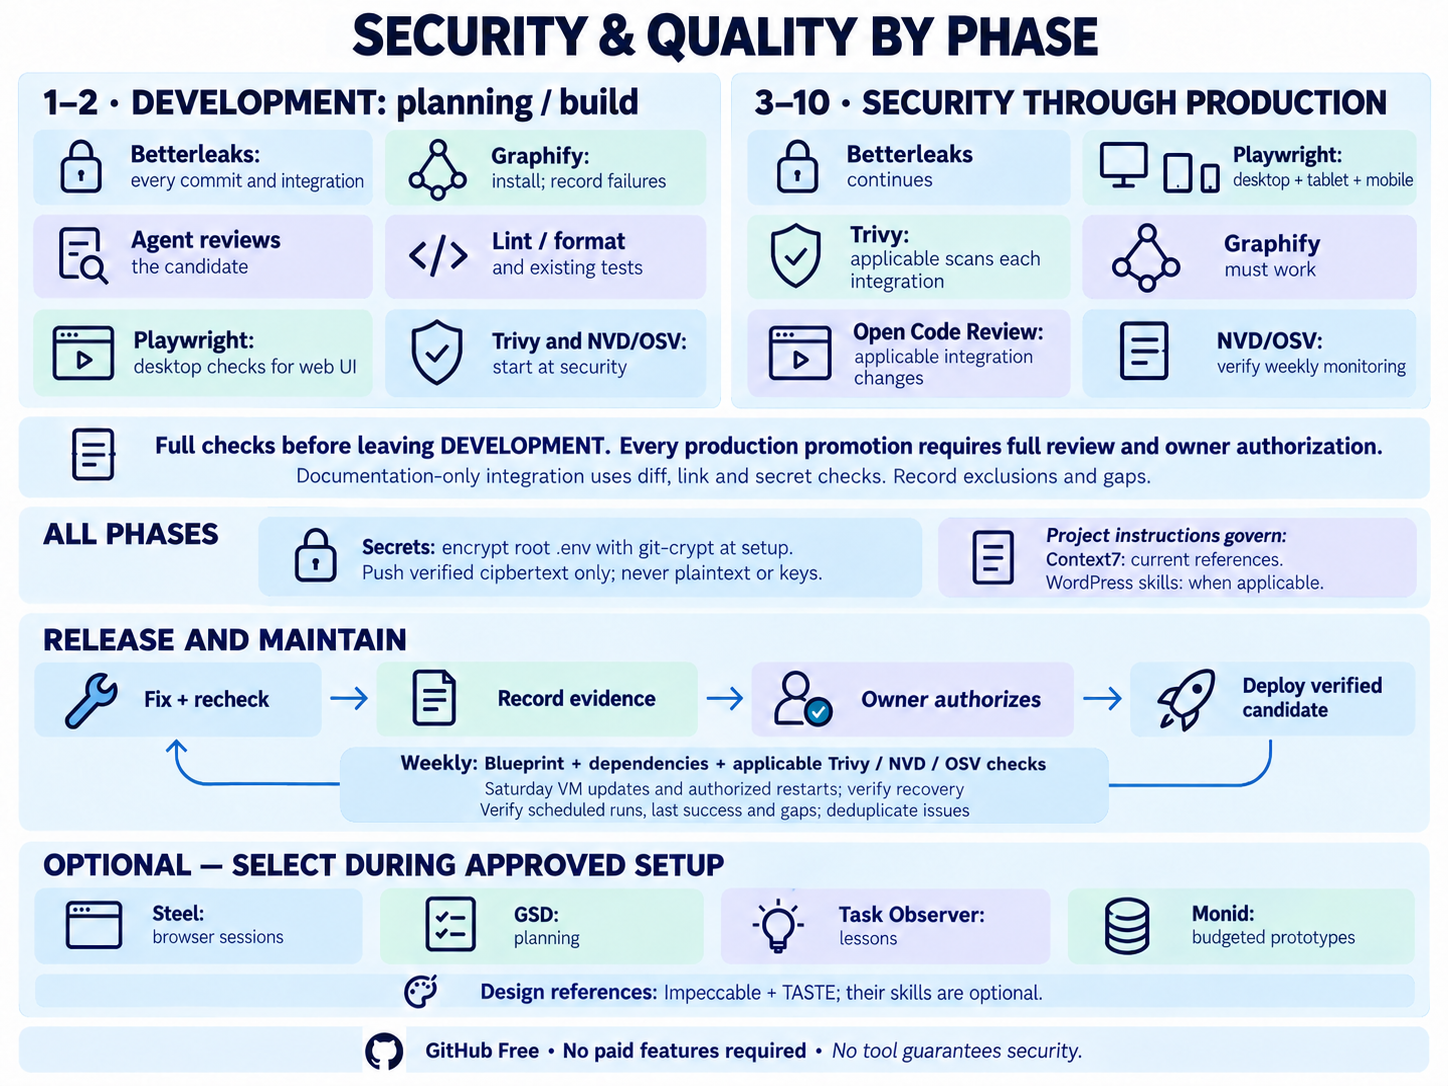
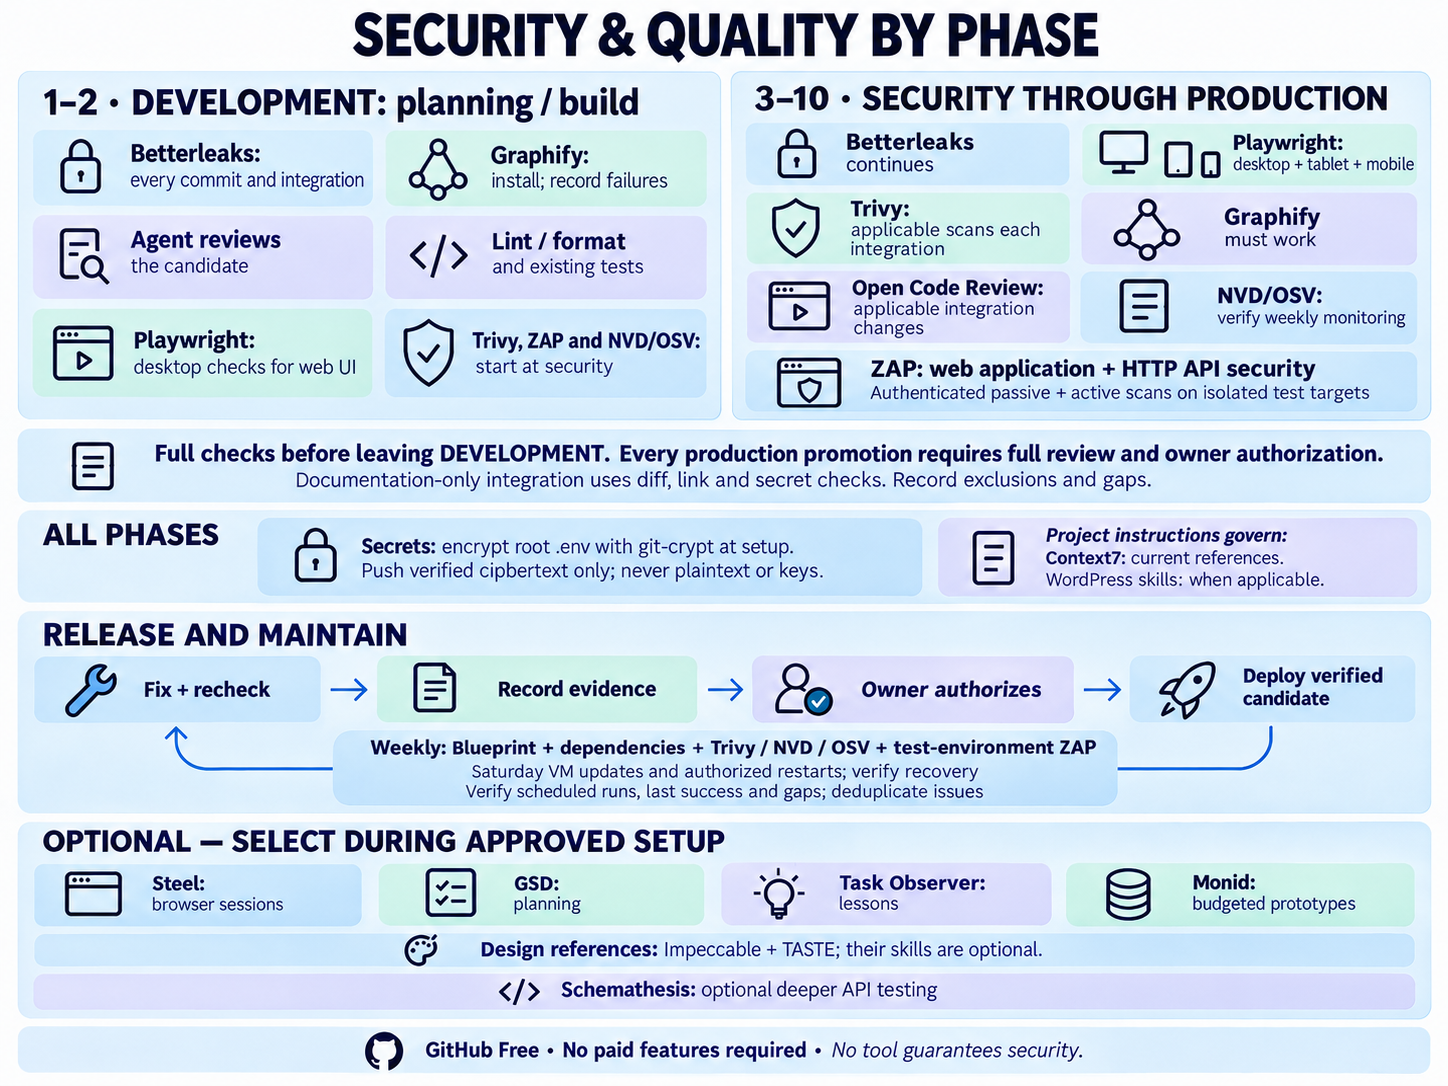
Integrate ZAP security testing (#51)

diff --git a/template/security.md b/template/security.md
@@ -16,6 +16,7 @@ Light checks apply from setup; the full set switches on at `DEVELOPMENT: securit
 | [Secret scanning](#secret-scanning) (Betterleaks) and [encrypted `.env`](#encrypted-env-with-git-crypt) | Required at setup, every commit and integration | Required at every commit and integration |
 | Release rule: no `main` or production change without explicit release authorization | Always | Always |
 | [Trivy](#dependency-and-configuration-scanning) | Not yet installed | Install, run before each integration, weekly thereafter |
+| [ZAP](#application-and-api-security-testing) for web applications and HTTP APIs | Plan scope; not yet installed | Install and verify; affected integrations, every production candidate, weekly test-environment scan |
 | [Delegated code review](git-workflow.md#delegated-code-review) (Open Code Review) | Agent's own review of the candidate | Applicable integration changes and every production promotion; exclusions follow the linked workflow |
 | [Playwright](project.md#playwright) for web UI | Installed at setup; desktop checks | Full desktop/tablet/mobile matrix |
 | [Lint/format](packages.md#linting-and-formatting), existing tests and meaningful behavior checks | Required as applicable | Required as applicable |
@@ -69,6 +70,18 @@ Secret scanning is required infrastructure. Use [Betterleaks](https://github.com
 - Run an initial baseline and applicable scans of each integration candidate, and applicable scans of the exact candidate before every production promotion. Rescan maintained projects weekly for newly disclosed vulnerabilities, including the recorded deployed version/artifact where accessible. Use current vulnerability databases and record scan time, database freshness, candidate/image identity, covered targets, and gaps. Unattended checks follow the recorded maintenance choice; without a verified runner, perform checks during active sessions and disclose the scheduling gap.
 - Configure a nonzero result for blocking findings and verify both detection/failure and clean/pass behavior with harmless isolated fixtures, without executing vulnerable software. Scan errors, stale/unavailable required databases, skipped checks, or missing required coverage are incomplete verification. Retain a complete report for triage; do not hide unfixed vulnerabilities simply because no patch exists. Confirm findings, fix and rescan, and use the existing [security review](#security-review) severity and owner-only risk-acceptance rules. Keep exclusions narrow, evidenced, tracked, and time-bounded; preserve accepted findings in the record.
 - Keep detailed results private. Run with minimal permissions and without production secrets, using authorized local or CI resources within existing limits. Paid dashboards, public report uploads, and paid GitHub security features are not prerequisites. Optional license scanning or software inventories support project needs; scanner license categories do not determine legal approval.
+
+## Application and API security testing
+
+[ZAP](https://www.zaproxy.org/) is required for projects exposing a web application or HTTP API from `DEVELOPMENT: security` onward under [checks by phase](#checks-by-phase). Projects exposing neither record reasoned `ZAP: not applicable`; unsupported protocols need explicit complementary tests. A required application that cannot run is a blocker, not an exclusion. ZAP complements Betterleaks, Trivy, code review and Playwright; it does not replace them or prove business-rule correctness.
+
+- Install a verified official release or pinned container digest on authorized local resources in the project's existing LXC container or VM; no separate VM, paid service or GitHub feature is required. Follow the [Automation Framework](https://www.zaproxy.org/docs/automate/automation-framework/) and [API scanning guidance](https://www.zaproxy.org/docs/docker/api-scan/). Select maintained [add-ons](https://www.zaproxy.org/addons/) for the actual protocols, authentication and frontend; assess maturity and need rather than installing every experimental rule. Record versions, scan plan, commands and prerequisites in private setup docs, linked from `AGENTS.md`; maintain them under [updates.md](updates.md).
+- Bound scans to recorded project-owned test targets, routes and methods, using synthetic accounts/data, rate/time limits and resettable fixtures. Keep the scanner's control API private and access-restricted. Active scans can modify data; isolate production and third-party destinations, including redirects and outbound application calls, and use sandboxed or stubbed payment, messaging and other external integrations. Crawling and proxied browser journeys also need these boundaries even when analysis is passive. Routine scans within this verified scope need no repeated approval; production or third-party scanning requires separate explicit authorization.
+- Cover browser pages and APIs with suitable policies. Import applicable OpenAPI, GraphQL or SOAP definitions; otherwise seed discovered endpoints or existing tests. Where practical, proxy selected Playwright journeys through ZAP to reuse navigation, retaining normal browser assertions and device coverage. Verify authenticated sessions remain logged in and compare reached endpoints/roles with the project's inventory; a login page, empty crawl, passive-only scan or API-only policy does not establish complete application coverage. Keep explicit allowed/denied user, role, object and tenant tests alongside automated scans.
+- Run and verify an initial baseline at `security`, affected runtime checks before integration, and applicable scans of the exact release candidate in isolation before every production promotion. Repeat a bounded test-environment scan weekly under existing maintenance scheduling. Documentation-only changes without runtime effect need no scan; record the reason. Record target/candidate, authentication and endpoint coverage, exclusions, scanner/rule versions and results privately. Missing targets, failed login, timeouts, skipped checks and incomplete scans are gaps, never clean results.
+- Configure finding thresholds and process exit status explicitly; successful plan execution alone does not mean no vulnerabilities. Verify detection and blocking with a harmless isolated fixture and confirm clean/pass behavior. Triage findings, fix and retest using [security review](#security-review), preserving narrow evidenced exceptions and owner-only risk acceptance. Keep credentials, request/response captures and reports private and out of public artifacts; retain only needed evidence with appropriate access and cleanup.
+
+For APIs consumed from other providers, apply [OWASP API Security guidance](https://owasp.org/API-Security/) and [unsafe consumption protections](https://api-security.owasp.org/editions/2023/en/0xaa-unsafe-consumption-of-apis/): inventory integrations and data shared, use least-privilege server-side credentials and TLS verification, validate returned data, constrain destinations/redirects to prevent server-side request forgery, and bound timeouts, response sizes and retries. Verify webhook signatures and replay protection where applicable, and idempotency, rate/spend limits and failure handling for consequential operations. Test malformed responses and provider failures with controlled substitutes; never attack a provider to validate our integration. For schema-heavy APIs, [Schemathesis](https://schemathesis.readthedocs.io/) is optional deeper testing when selected; it is not required setup.
 
 ## Vulnerability intelligence
 

diff --git a/README.md b/README.md
@@ -80,7 +80,7 @@ Use the interface prompt in [Prompts](#prompts).
 
 Tools complement application security controls; a clean report cannot guarantee security. [Security review](template/security.md#security-review) governs coverage, findings, and risk decisions.
 
-![Security and quality by phase. Planning/build require secret scans, agent review, desktop Playwright for web UI, lint/format and existing tests; install Graphify and record failures. From DEVELOPMENT security onward require working Graphify, applicable Trivy scans, delegated code review, full desktop/tablet/mobile coverage and NVD/OSV monitoring. Full checks precede leaving DEVELOPMENT; every production promotion requires review and owner authorization. Weekly Blueprint, dependency and applicable security checks share verified scheduling with authorized Saturday VM maintenance. Root .env uses git-crypt encryption at initial setup; only verified ciphertext may be pushed, never plaintext or keys. Steel, GSD, Task Observer and Monid are optional; Impeccable and TASTE skills are optional. No paid GitHub features are required and no tool guarantees security](assets/security-quality-flow.png)
+![Security and quality by phase. Planning/build require secret scans, agent review, desktop Playwright for web UI, lint/format and existing tests; install Graphify and record failures. From DEVELOPMENT security onward require working Graphify, applicable Trivy and ZAP application/API scans, delegated code review, full desktop/tablet/mobile coverage and NVD/OSV monitoring. Full checks precede leaving DEVELOPMENT; every production promotion requires review and owner authorization. ZAP uses isolated test targets and authenticated coverage; existing tools remain required. Weekly Blueprint, dependency and applicable security checks share verified scheduling with authorized Saturday VM maintenance. Root .env uses git-crypt encryption at initial setup; only verified ciphertext may be pushed, never plaintext or keys. Steel, GSD, Task Observer, Monid and deeper Schemathesis API testing are optional; Impeccable and TASTE skills are optional. No paid GitHub features are required and no tool guarantees security](assets/security-quality-flow.png)
 
 [Open the full-size security and quality graphic](assets/security-quality-flow.png). Weekly rescans and inventory-matched NVD/OSV advisory checks share the maintenance workflow. [Monitor health](template/updates.md#advisory-monitoring-and-health) records verified scheduled execution, last successful checks and gaps; otherwise agents check during active sessions. Existing projects approve maintenance-rule changes under the recorded adoption policy.
 
@@ -93,6 +93,7 @@ Tools complement application security controls; a clean report cannot guarantee 
 | [ESLint](https://eslint.org/) / [Prettier](https://prettier.io/) / [WordPress Coding Standards](https://github.com/WordPress/WordPress-Coding-Standards) | [Stack-appropriate checks](template/packages.md#linting-and-formatting) enforce consistent code and flag problematic patterns; preserve equivalent existing tools. |
 | [Betterleaks](https://github.com/betterleaks/betterleaks) | Required secret scanning checks files, staged changes, and relevant history; verified existing Gitleaks coverage can remain during adoption. |
 | [Trivy](https://github.com/aquasecurity/trivy) | Required scanning for supported dependency vulnerabilities, infrastructure configuration, and shipped container images. Record coverage gaps, including WordPress components outside Composer coverage. |
+| [ZAP](https://www.zaproxy.org/) | Required running-application security tests for web applications and HTTP APIs from `DEVELOPMENT: security`: discovery, authenticated passive/active scans, applicable API coverage and private reports under [security guidance](template/security.md#application-and-api-security-testing). Complements existing tools. |
 | [Open Code Review](https://github.com/alibaba/open-code-review) | Delegated review follows [change-type exclusions](template/git-workflow.md#delegated-code-review); every production promotion requires full review. Preview alone is insufficient. |
 | [Playwright](https://playwright.dev/) | Required for web-facing UI; projects without one record reasoned N/A and skip the browser stack and device matrix. |
 | [Steel Browser](https://github.com/steel-dev/steel-browser) | Optional agent browser sessions, extraction, and debugging under [setup guidance](template/project.md#steel-browser). Prefer authorized local/self-hosted resources; retain required Playwright device/browser checks. |
@@ -102,18 +103,20 @@ Tools complement application security controls; a clean report cannot guarantee 
 | [Task Observer](https://github.com/rebelytics/one-skill-to-rule-them-all) | Optional, owner-selected lesson capture with private persistent observations, verified activation, and reviewed proposals under [setup guidance](template/project.md#task-observer). |
 | [TASTE](https://github.com/leonxlnx/taste-skill) | Public-page design reference and optional skill; content-led composition and screenshot critique under [project design rules](template/design.md). |
 
+ZAP runs against isolated project test targets with synthetic accounts and controlled external integrations. Agents verify authentication and endpoint coverage, retain explicit permission tests, and protect third-party API consumption under [application and API security testing](template/security.md#application-and-api-security-testing). Schemathesis is optional for deeper schema-based API tests when needed.
+
 Agents verify changes under [delivery rules](template/git-workflow.md#isolation-branches-and-delivery) and [security review](template/security.md#security-review), fixing findings and recording evidence. [Release](template/launch.md) requires candidate checks and authorization; [maintenance](template/updates.md) repeats checks as advisories change.
 
 ## Weekly maintenance and credentials
 
-[Setup](template/project.md#setup-interview) records a weekly plan covering Blueprint changes, NVD/OSV checks, Trivy rescans and dependency updates. [VM maintenance](template/updates.md#weekly-vm-maintenance) defaults to late Saturday in the recorded timezone, with agreed restart/reboot scope and recovery checks. Shared VMs have one host job. Each check records its own result; failed or missing runs are reported, not counted as clean.
+[Setup](template/project.md#setup-interview) records a weekly plan covering Blueprint changes, NVD/OSV checks, Trivy rescans, bounded ZAP test-environment scans and dependency updates. [VM maintenance](template/updates.md#weekly-vm-maintenance) defaults to late Saturday in the recorded timezone, with agreed restart/reboot scope and recovery checks. Shared VMs have one host job. Each check records its own result; failed or missing runs are reported, not counted as clean.
 
 ```mermaid
 flowchart TD
     A[Initial owner interview] --> B[Verify scheduler, access and agent handoff]
     B --> C[Weekly maintenance window]
     C --> D[Blueprint default-branch comparison]
-    C --> E[NVD / OSV, Trivy and dependency checks]
+    C --> E[NVD / OSV, Trivy, test-environment ZAP and dependency checks]
     C --> F[One job per VM: OS updates and authorized restarts]
     D --> G[Issue first: apply routine changes; ask on major changes]
     E --> H[Triage findings and verify fixes]

diff --git a/template/project.md b/template/project.md
@@ -30,7 +30,7 @@ Record each required tool's installed version/revision, location, and verificati
 1. Record the phase/subphase under [phases.md](phases.md), launch state, actual development/deployed commits, branches, triggers, services, and checks. New projects start at `DEVELOPMENT: planning`; existing projects retain their verified position, asking only if unclear. Mark undeployed/unconfigured items explicitly. Establish integration under [git-workflow.md](git-workflow.md) without discarding unfinished work.
 2. Complete [Playwright setup](#playwright), selected [Steel Browser setup](#steel-browser), and [linting and formatting](packages.md#linting-and-formatting); [Open Code Review setup](#open-code-review) and the full device matrix follow [checks by phase](security.md#checks-by-phase) at `DEVELOPMENT: security`. Fill and verify the command table from scripts/CI; identify blocked or inapplicable commands. Keep the human-facing quick start in README.
 3. Establish private `docs/internal/` and its index under [documentation.md](documentation.md). Add `docs/public/` and optional `docs/admin/` only when needed; record each source, destination, build command, audience, and access restrictions. Verify links and existing delivery without publishing an unauthorized release.
-4. Complete [Betterleaks secret-scanning setup](security.md#secret-scanning); [Trivy](security.md#dependency-and-configuration-scanning) is installed at `DEVELOPMENT: security` under [checks by phase](security.md#checks-by-phase). Create and protect the project-root `.env` and placeholder-only `.env.example` under [local secret handling](security.md#local-development-secrets); configure and verify standard [git-crypt encryption](security.md#encrypted-env-with-git-crypt), including plaintext blocking and scan-scope tests, before tracking `.env`. Inventory all [recovery dependencies and protected backups](security.md#local-development-secrets), record recovery objectives and restore-test evidence/gaps, and verify applicable recovery readiness. Document test-data setup, secret configuration, and private vulnerability reporting under [security.md](security.md), without secret values. Record business/service regions and existing policies under [legal.md](legal.md); assess applicable notices before real personal-data collection, including pre-launch. Identify existing commercial decisions and customer-facing pages under [offering.md](offering.md). Adoption does not authorize replacing live policies or offers.
+4. Complete [Betterleaks secret-scanning setup](security.md#secret-scanning); [Trivy](security.md#dependency-and-configuration-scanning) and applicable [ZAP testing](security.md#application-and-api-security-testing) are installed and verified at `DEVELOPMENT: security` under [checks by phase](security.md#checks-by-phase). Create and protect the project-root `.env` and placeholder-only `.env.example` under [local secret handling](security.md#local-development-secrets); configure and verify standard [git-crypt encryption](security.md#encrypted-env-with-git-crypt), including plaintext blocking and scan-scope tests, before tracking `.env`. Inventory all [recovery dependencies and protected backups](security.md#local-development-secrets), record recovery objectives and restore-test evidence/gaps, and verify applicable recovery readiness. Document test-data setup, secret configuration, and private vulnerability reporting under [security.md](security.md), without secret values. Record business/service regions and existing policies under [legal.md](legal.md); assess applicable notices before real personal-data collection, including pre-launch. Identify existing commercial decisions and customer-facing pages under [offering.md](offering.md). Adoption does not authorize replacing live policies or offers.
 5. Configure maintenance under [updates.md](updates.md), including [weekly VM maintenance](updates.md#weekly-vm-maintenance) and [periodic Blueprint checks](updates.md#periodic-blueprint-maintenance); [NVD/OSV advisory monitoring and health verification](updates.md#advisory-monitoring-and-health) is configured at `DEVELOPMENT: security`; record schedules, coverage, checks, runner/run links, last successful checks, and gaps. Distinguish active-agent work from verified unattended automation; record package rationale.
 6. Set up [Graphify](#graphify), complete [WordPress skills setup](#wordpress-skills) for WordPress projects, and verify access to current product references under [packages.md](packages.md#current-product-references). Record blueprint revision, local exceptions, and accessible skill locations in `AGENTS.md`. Verify installed discovery or explicit reading from a retained blueprint checkout. Application domains and provider details belong in project docs, not the reusable blueprint.
 

diff --git a/template/updates.md b/template/updates.md
@@ -21,7 +21,7 @@ Routine Blueprint updates from the recorded source repository's default branch a
 Include [recovery inventory and backup health](security.md#local-development-secrets) in weekly maintenance: verify freshness, failures, independent access and due restore drills; report gaps through the existing maintenance issue process.
 
 - Check supported dependencies weekly with Dependabot. Enable security alerts and security update PRs; assess relevant vulnerabilities promptly rather than waiting for the weekly run. Include application packages, build tooling, and workflow/container dependencies where present.
-- From the phase specified in [checks by phase](security.md#checks-by-phase), maintain Trivy and its databases and perform the weekly [vulnerability/configuration rescans](security.md#dependency-and-configuration-scanning) alongside [NVD/OSV advisory monitoring](#advisory-monitoring-and-health), including unchanged deployed artifacts where accessible. Share inventory, scheduling and finding records; a dependency update check alone is not a vulnerability rescan.
+- From the phase specified in [checks by phase](security.md#checks-by-phase), maintain Trivy and its databases and perform the weekly [vulnerability/configuration rescans](security.md#dependency-and-configuration-scanning) alongside [NVD/OSV advisory monitoring](#advisory-monitoring-and-health), including unchanged deployed artifacts where accessible. Share inventory, scheduling and finding records; a dependency update check alone is not a vulnerability rescan. Maintain ZAP and selected add-ons and run the bounded weekly test-environment scan under [application and API security testing](security.md#application-and-api-security-testing), recording target availability, last successful coverage and scheduling gaps through this same workflow.
 - Automatically merge eligible stable patch/minor updates into `develop` after required checks pass. Group compatible routine updates to reduce noise; isolate failures and major upgrades.
 - Agents handle major upgrades, compatibility repairs, and security fixes autonomously when behavior and approved requirements can be preserved. Review release notes, perform migrations, and verify affected behavior before integration. A major version alone is not a reason to ask the owner.
 - Ask only for genuine product, cost, licensing, architecture, or destructive-data decisions. Use the appropriate `paused:` label under [git-workflow.md](git-workflow.md) when necessary; continue other work.
